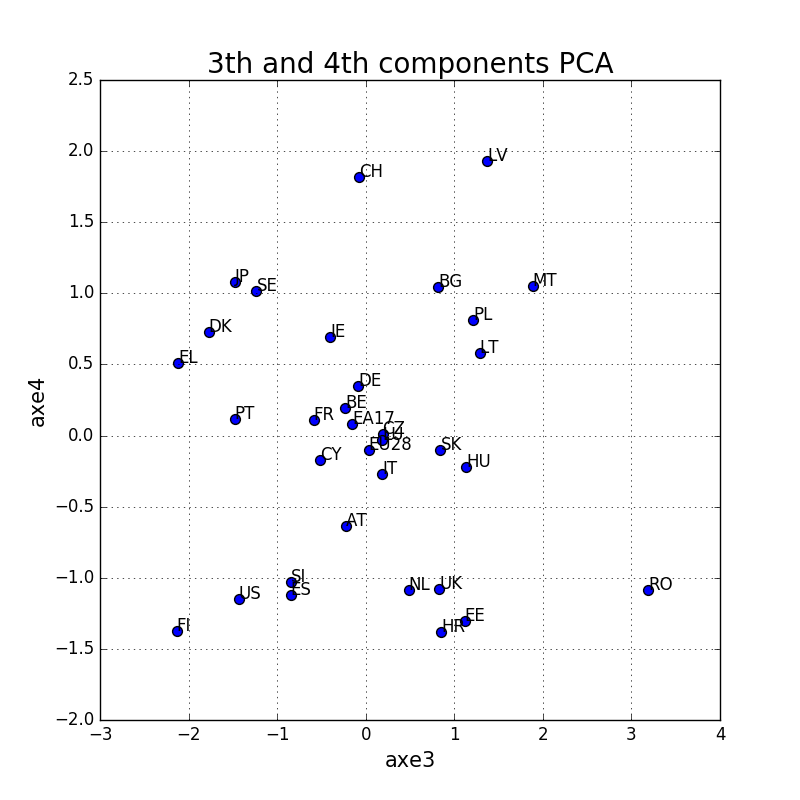
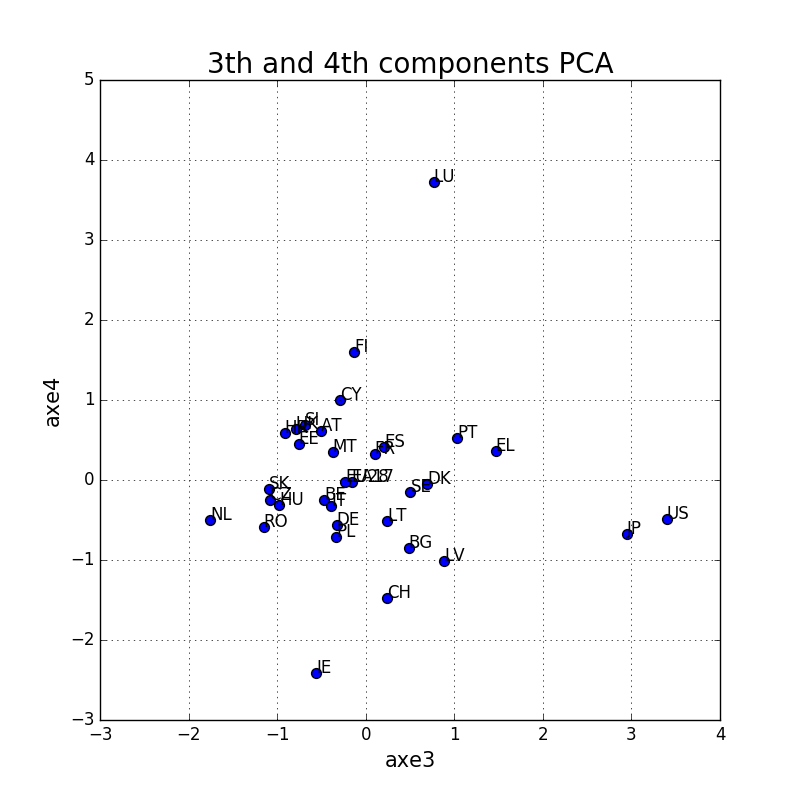
question 6

diff --git a/tp2-1.1.py b/tp2-1.1.py
@@ -10,11 +10,15 @@ from sklearn import preprocessing
 from sklearn. cluster import KMeans
 from sklearn.preprocessing import MinMaxScaler
 from mpl_toolkits.mplot3d import Axes3D
+from R_square_clustering import r_square
+from scipy.cluster import hierarchy
 
 data = pd.read_csv("eurostat/eurostat-2013.csv")
-
+#print(data[["tps00001 (2013)","tet00002 (2013)"]])
+#exit()
 #diviser les valeurs de la colonne('tsc00004 (2012)') par la population
 data['tsc00004 (2012)'] = data['tsc00004 (2012)'].divide(data['tps00001 (2013)'])
+data['tet00002 (2013)'] = data['tet00002 (2013)'].divide(data['tps00001 (2013)'])
 
 #Supprimer les données correspondant à la population.
 data =data.drop(['tps00001 (2013)'], axis=1)
@@ -93,7 +97,6 @@ sqrt_eigval = np.sqrt(eigval)
 corvar = np.zeros((p,p))
 for k in range(p):
     corvar [:, k] = pca.components_[k,:]*sqrt_eigval[k]
-    print(corvar)
 #correlation_circle
 def correlation_circle(df,nb_var,x_axis,y_axis):
     fig, axes = plt.subplots(figsize=(8,8))
@@ -114,34 +117,54 @@ def correlation_circle(df,nb_var,x_axis,y_axis):
 
 correlation_circle(data,9,0,1)
 
+#question 5
+lst_k=range(2,8)
+lst_rsq = []
+for k in lst_k:
+    est=KMeans(n_clusters=k)
+    est.fit (X_norm)
+    lst_rsq.append(r_square(X_norm, est.cluster_centers_,est.labels_,k))
+fig = plt. figure ()
+plt.plot(lst_k, lst_rsq, 'bx-')
+plt.xlabel('k')
+plt.ylabel('RSQ')
+plt.title ('The Elbow Method showing the optimal k')
+plt.savefig('r_square')
+plt.close(fig)
+
+
 # Plot clusters
-lst_kmeans = [KMeans(n_clusters=n) for n in range(2,8)]
-titles = [str(x)+' clusters 'for x in range(2,8)]
-fignum = 1
-for kmeans in lst_kmeans:
-    fig = plt. figure (fignum, figsize =(8, 6))
-    ax = Axes3D(fig, rect=[0, 0, .95, 1], elev=48, azim=134)
-    kmeans.fit(X_norm)
-    labels = kmeans.labels_
-    ax.scatter(X['teilm (F dec 2013)'],X['teilm (M dec 2013)'],c=labels.astype(np.float), edgecolor='k')
-    ax.w_xaxis.set_ticklabels([])
-    ax.w_yaxis.set_ticklabels([])
-    ax.w_zaxis.set_ticklabels ([])
-    ax.set_xlabel('teilm (F dec 2013)')
-    ax.set_ylabel('teilm (M dec 2013)')
-    ax.set_title ( titles [fignum - 1])
-    ax.dist = 12
-    plt.savefig ('k-means_'+str(2+fignum)+'_clusters')
-    fignum = fignum + 1
-    plt.close( fig )
+est = KMeans(n_clusters=4)
+fig = plt.figure (1, figsize =(8, 6))
+ax = Axes3D(fig, rect=[0, 0, .95, 1], elev=48, azim=134)
+est.fit(X)
+labels = est.labels_
+centroids = est.cluster_centers_
+plt.scatter(centroids[:, 0], centroids[:, 1],
+            marker='o',
+            c='w')
+plt.title('K-means clustering')
+plt.xticks(())
+plt.yticks(())
+ax.dist = 12
+plt.savefig ('k-means_4_clusters')
+plt.close( fig )
 # print centroids associated with several countries
 lst_countries=['EL','FR','DE','US']
 # centroid of the entire dataset
 # est: KMeans model fit to the dataset
-'''print (est.cluster_centers_)
+y=data['Code']
+
+print (est.cluster_centers_)
 for name in lst_countries:
     num_cluster = est.labels_[y.loc[y==name].index][0]
     print ('Num cluster for '+name+': '+str(num_cluster))
     print ('\tlist of countries: '+', '.join(y.iloc[np.where(est.labels_==num_cluster)].values))
-    print ('\tcentroid: '+str(est.cluster_centers_[num_cluster]))'''
+    print ('\tcentroid: '+str(est.cluster_centers_[num_cluster]))
 
+
+Z = hierarchy.linkage(X,'ward')
+lst_labels = map(lambda pair: pair[0], zip( data['Code'].values, data.index))
+plt.figure()
+dn = hierarchy.dendrogram(Z,color_threshold=0,labels=lst_labels)
+plt.show()

diff --git a/R_square_clustering.py b/R_square_clustering.py
@@ -1,0 +1,68 @@
+"""
+Computation of R-square V_inter/V for clustering
+"""
+#!/usr/bin/env python
+# -*- coding: utf-8 -*-
+
+import numpy as np
+
+# compute r square for clustering
+def r_square(data,centroids,labels,q):
+    """rsquare
+
+    R-square is computed from between variance and within variance of clustered data. This score (between 0 and 1) can be used to evaluate clustering
+
+    Args:
+        data(numpy.ndarray): m*n matrix of the original data to cluster
+        centroids(np.ndarray): q*n matrix of cluster centroids
+        labels(nb.ndarray): m*1 array of cluster labels for each instance of data
+        q(int): number of clusters
+    Returns:
+        float: R-square score
+   
+    """
+    v_within = within_variance(data,centroids,labels,q)
+    v_between = between_variance(data,centroids,labels,q)
+    return v_between/(v_between+v_within)
+
+# compute within variance
+def within_variance(data,centroids,labels,q):
+    res = 0.0
+    for k in range(q):
+        # get number of instances inside cluster k
+        n_k = (labels==k).sum()
+
+        # select rows of data associated with each cluster
+        d_k = data[np.where(labels==k)]
+        
+        # sum squared distances between each point and its centroid
+        sum = 0.0
+        for vec_k in d_k:
+            sum += np.sum(np.square(vec_k-centroids[k]))
+
+        res += sum
+    return res/len(data)
+
+
+# compute between variance
+def between_variance(data,centroids,labels,q):
+    center = np.average(data,axis=0)
+
+    res = 0.0
+    
+    for k in range(q):
+        # get number of instances inside cluster k
+        n_k = (labels==k).sum()
+
+        # sum squared distances between global centroid and each cluster centroid
+        res += n_k * np.sum(np.square(centroids[k]-center))
+
+    return res/len(data)
+
+
+
+# compute r square for clustering
+def r_square(data,centroids,labels,q):
+    v_within = within_variance(data,centroids,labels,q)
+    v_between = between_variance(data,centroids,labels,q)
+    return v_between/(v_between+v_within)
